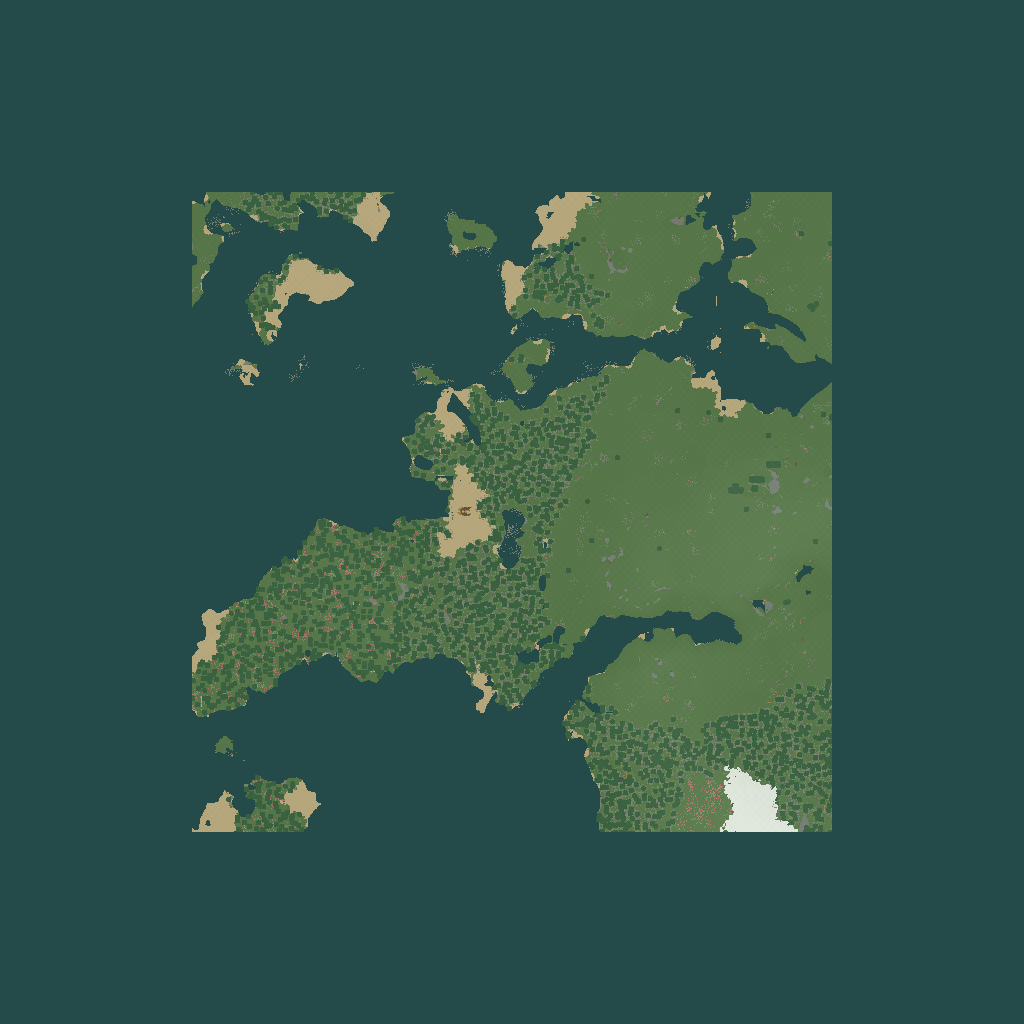
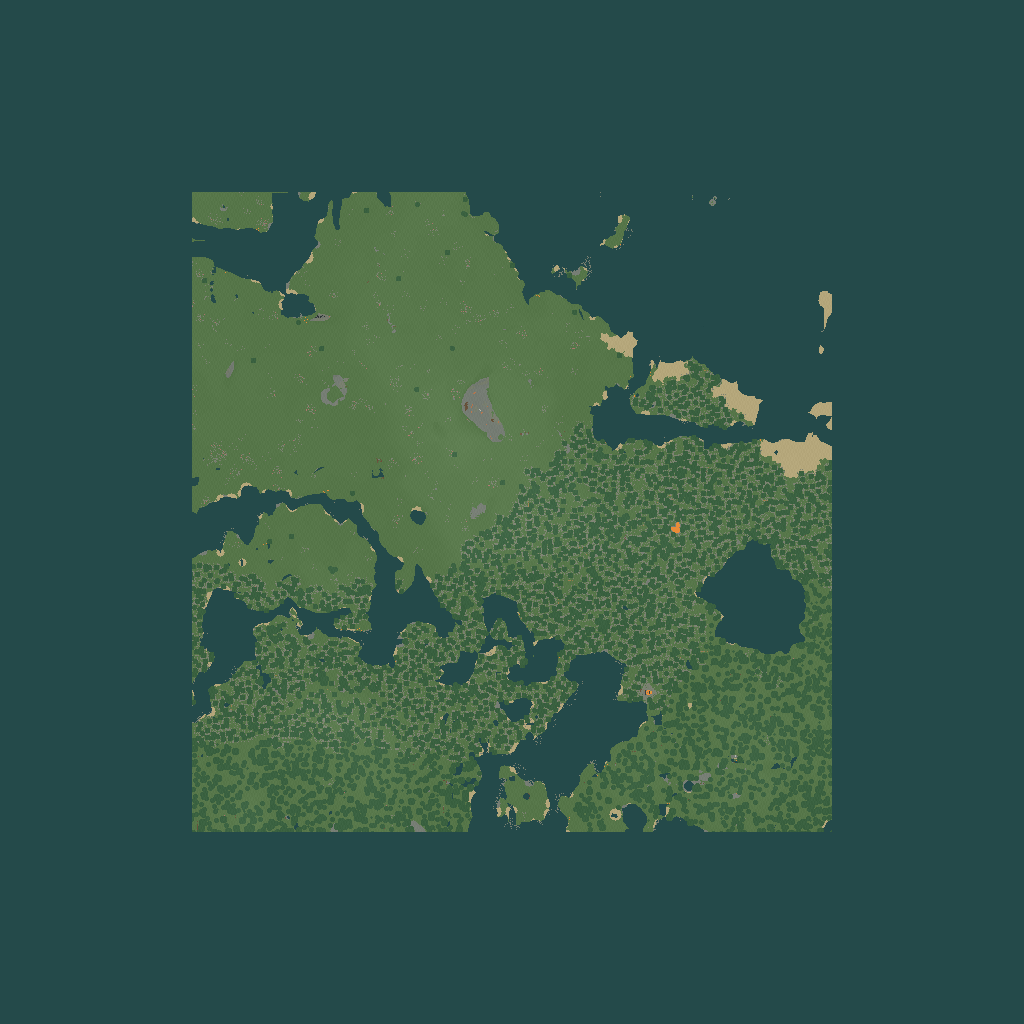
Choose one of four settlement groups for the new playtest

Changed region(s): [[0.1875, 0.1875, 0.8125, 0.8125]]

diff --git a/spawn-picker.js b/spawn-picker.js
@@ -8,27 +8,29 @@ export function mountSpawnPicker(root,{choices,selected='',locked=false,onChange
   const image=svgNode('image'),markers=svgNode('g');svg.append(image,markers);
   function draw(){
     if(!data?.slots?.length){status.textContent='Spawn map unavailable. Try again shortly.';onChange('');return;}
+    const grouped=data.selectionMode==='group',options=grouped?data.groups.map(g=>({...g,slotId:g.id,name:g.name})):data.slots;
+    root.querySelector('h3').textContent=grouped?'Choose your group.':'Choose your starting place.';
     const xs=data.slots.map(s=>s.x),zs=data.slots.map(s=>s.z),cx=(Math.min(...xs)+Math.max(...xs))/2,cz=(Math.min(...zs)+Math.max(...zs))/2;
-    const w=Math.max(320,Math.max(...xs)-Math.min(...xs)+120)/zoom,h=w*.72;
+    const w=Math.max(320,Math.max(...xs)-Math.min(...xs)+120,(Math.max(...zs)-Math.min(...zs)+120)/.72)/zoom,h=w*.72;
     svg.setAttribute('viewBox',`${cx-w/2} ${cz-h/2} ${w} ${h}`);
     if(terrain){const b=terrain.bounds;image.setAttribute('href',terrain.detailImage||terrain.image);for(const [k,v]of Object.entries({x:b.x,y:b.z,width:b.width,height:b.height}))image.setAttribute(k,String(v));}
-    if(!locked&&selection&&!data.slots.some(s=>s.slotId===selection&&s.status==='available')){selection='';onChange('');}
+    if(!locked&&selection&&!options.some(s=>s.slotId===selection&&s.status==='available')){selection='';onChange('');}
     markers.replaceChildren();
-    for(const s of data.slots){const available=!locked&&s.status==='available',chosen=selection===s.slotId;
+    for(const s of options){const available=!locked&&s.status==='available',chosen=selection===s.slotId;
       const node=svgNode('g',{transform:`translate(${s.x} ${s.z})`,class:`spawn-marker ${s.status}${chosen?' selected':''}`,role:'button',tabindex:available?0:-1,'aria-disabled':String(!available),'aria-pressed':String(chosen),'aria-label':`${s.slotId} · ${s.status}${s.name?' · '+s.name:''}`});
-      node.append(svgNode('circle',{r:chosen?8:6}),svgNode('circle',{r:2,class:'spawn-center'}));
-      const text=svgNode('text',{y:-12,'text-anchor':'middle'});text.textContent=s.slotId.slice(2);node.append(text);
+      node.append(svgNode('circle',{r:grouped?(chosen?14:12):(chosen?8:6)}),svgNode('circle',{r:2,class:'spawn-center'}));
+      const text=svgNode('text',{y:grouped?-20:-12,'text-anchor':'middle'});text.textContent=grouped?`${s.name} · ${s.players}/5`:s.slotId.slice(2);node.append(text);
       const title=svgNode('title');title.textContent=s.name||s.slotId;node.append(title);
       const choose=()=>{if(!available)return;selection=s.slotId;draw();onChange(selection);};
       node.addEventListener('click',choose);node.addEventListener('keydown',e=>{if(['Enter',' '].includes(e.key)){e.preventDefault();choose();}});markers.append(node);
     }
     const places=data.playerPlacesAvailable??16,free=data.slots.filter(s=>s.status==='available'||s.status==='community-pool').length;
-    count.textContent=places>0?`${free} free spots · ${places} player places`:`${free} spots · Community pool`;
+    count.textContent=grouped?`${places} player places · 4 community AIs`:places>0?`${free} free spots · ${places} player places`:`${free} spots · Community pool`;
     root.querySelector('.spawn-legend').innerHTML=places>0?'<span class="available">Available</span><span class="occupied">Occupied</span>':'<span class="occupied">Occupied</span><span class="community-pool">Community pool</span>';
-    status.textContent=selection?`${selection} · ${locked?'Initial spawn saved':'Selected'}`:'Select a free marker';
+    status.textContent=grouped?(selection?`${options.find(g=>g.slotId===selection)?.name??selection} · ${locked?'Saved':'Selected'}`:'Choose a group · Your spot is assigned automatically'):selection?`${selection} · ${locked?'Initial spawn saved':'Selected'}`:'Select a free marker';
     if(!locked)onChange(selection);
   }
   root.addEventListener('click',e=>{const z=e.target.closest('[data-zoom]')?.dataset.zoom;if(!z)return;zoom=z==='fit'?1:Math.max(.75,Math.min(2.5,zoom*(z==='in'?1.25:.8)));draw();});
-  fetch('island-map.json').then(r=>{if(!r.ok)throw Error();return r.json();}).then(t=>{if(dead)return;terrain=t;draw();}).catch(()=>{if(!dead)status.textContent='Map image unavailable. Choose a numbered marker.';});
+  fetch('island-map.json').then(r=>{if(!r.ok)throw Error();return r.json();}).then(t=>{if(dead)return;terrain=t;draw();}).catch(()=>{if(!dead)status.textContent='Map image unavailable. Choose an available marker.';});
   draw();return {getSelected:()=>selection,update(next){if(dead)return;data=next;draw();},destroy(){dead=true;}};
 }

diff --git a/app.js b/app.js
@@ -3,7 +3,7 @@ import {achievementsView,syncAchievements} from './achievements.js';
 import {syncObservationUI} from './observation.js';
 import {mapSection,syncWorldMap} from './world-map.js';
 import { mountWardrobe } from './wardrobe.js?v=20261026-poollight';
-import {mountSpawnPicker} from './spawn-picker.js?v=20261026-poollight';
+import {mountSpawnPicker} from './spawn-picker.js?v=20261028-groups';
 import { publicView,loadTwitchPlayer,privacyView } from './public-view.js?v=20261027-achievements';
 import * as deployment from './deployment.js';
 const {playerServices}=deployment;
@@ -163,7 +163,7 @@ function openCustomizer(){
   $('#dialog').classList.add('wardrobe-dialog');
   characterWardrobe=mountWardrobe($('#characterWardrobe'),{appearance:a?.appearance||{},locked});
   const picker=document.createElement('section');$('#customizerForm .wardrobe-save-row').before(picker);
-  characterSpawn=mountSpawnPicker(picker,{choices:state.spawnChoices,selected:a?.initialSpawn?.slotId||'',locked:saved,onChange:id=>{$('#customizerForm button[type="submit"]').disabled=!online||locked||!id;}});
+  characterSpawn=mountSpawnPicker(picker,{choices:state.spawnChoices,selected:(state.spawnChoices?.selectionMode==='group'?a?.initialSpawn?.groupId:a?.initialSpawn?.slotId)||'',locked:saved,onChange:id=>{$('#customizerForm button[type="submit"]').disabled=!online||locked||!id;}});
   if(!saved){$('#customizerForm button[type="submit"]').disabled=true;spawnPoll=setInterval(async()=>{if(document.hidden||pending||refreshing)return;try{const data=await request('/api/rpg/state');if(!characterSpawn)return;acceptState(data);}catch{}},5000);}
 }
 function appearanceFromForm(){return characterWardrobe?.getAppearance()||{};}
@@ -238,7 +238,7 @@ document.addEventListener('submit',async e=>{
   const a=ownAgent(),d=Object.fromEntries(new FormData(f));
   if(f.id==='whisperForm'&&await mutate('/api/rpg/whisper',{agentId:a?.id,prompt:whisperDraft.trim(),useExtraCredit:false},'Whisper queued.')){whisperDraft='';render();}
   if(f.id==='suggestionForm'&&await mutate('/api/rpg/community/suggest',{agentId:communityId,text:suggestionDrafts[communityId]?.trim()},'Suggestion added.')){suggestionDrafts[communityId]='';render();}
-  if(f.id==='customizerForm'){const appearance=appearanceFromForm(),spawnSlotId=characterSpawn?.getSelected();if(!a&&!spawnSlotId)return toast('Choose an available spawn on the map.',true);if(await mutate('/api/rpg/customize',{customName:d.customName.trim(),modelKey:d.modelKey,appearance,spawnSlotId},'Appearance saved and locked.'))closeDialog();else if(!a)try{acceptState(await request('/api/rpg/state'));}catch{}}
+  if(f.id==='customizerForm'){const appearance=appearanceFromForm(),spawnSlotId=characterSpawn?.getSelected();if(!a&&!spawnSlotId)return toast('Choose an available spawn on the map.',true);if(await mutate('/api/rpg/customize',{customName:d.customName.trim(),modelKey:d.modelKey,appearance,...(state.spawnChoices?.selectionMode==='group'?{spawnGroupId:spawnSlotId}:{spawnSlotId})},'Appearance saved and locked.'))closeDialog();else if(!a)try{acceptState(await request('/api/rpg/state'));}catch{}}
   if(f.id==='routineForm'){const steps=d.steps==='say'?'say:'+d.speech:d.steps;if(await mutate('/api/rpg/routine',{agentId:a?.id,routineId:f.dataset.id,action:'edit',name:d.name,trigger:d.trigger,steps},demo()?'Routine saved.':'Routine change queued.'))closeDialog();}
   if(f.id==='extraForm'){
     const type=f.dataset.type,camera=['camera','switch','spotlight'].includes(type);f.dataset.requestId??=crypto.randomUUID();

diff --git a/index.html b/index.html
@@ -4,7 +4,7 @@
 <meta charset="utf-8"><meta name="viewport" content="width=device-width, initial-scale=1"><meta name="theme-color" content="#121a17"><meta name="referrer" content="no-referrer">
 <meta http-equiv="Content-Security-Policy" content="default-src 'self'; script-src 'self'; style-src 'self' 'unsafe-inline'; img-src 'self' data: https://gateway.aiunderwatch.com; connect-src 'self' https://gateway.aiunderwatch.com; frame-src https://player.twitch.tv; base-uri 'self'; form-action 'self'">
 <meta name="description" content="They live. You influence. A living AI society watched and shaped by its audience."><meta property="og:title" content="AI Underwatch"><meta property="og:description" content="A world of their own. Under your watch."><meta property="og:image" content="https://aiunderwatch.com/world-art.png"><meta property="og:url" content="https://aiunderwatch.com/">
-<title>AI Underwatch · A society under your eye</title><link rel="canonical" href="https://aiunderwatch.com/"><link rel="icon" type="image/svg+xml" href="ai-underwatch-logo.svg"><link rel="stylesheet" href="style.css?v=20261027-whisper-history-remove"><link rel="stylesheet" href="wardrobe.css?v=20261026-poollight"><link rel="stylesheet" href="public-view.css"><link rel="stylesheet" href="achievements.css"><link rel="stylesheet" href="world-map.css"><link rel="stylesheet" href="observation.css?v=20261026-widehero-2"><script type="module" src="app.js?v=20261027-achievements"></script></head>
+<title>AI Underwatch · A society under your eye</title><link rel="canonical" href="https://aiunderwatch.com/"><link rel="icon" type="image/svg+xml" href="ai-underwatch-logo.svg"><link rel="stylesheet" href="style.css?v=20261027-whisper-history-remove"><link rel="stylesheet" href="wardrobe.css?v=20261026-poollight"><link rel="stylesheet" href="public-view.css"><link rel="stylesheet" href="achievements.css"><link rel="stylesheet" href="world-map.css"><link rel="stylesheet" href="observation.css?v=20261026-widehero-2"><script type="module" src="app.js?v=20261028-groups"></script></head>
 <body><a class="skip-link" href="#main">Skip to content</a>
 <header class="masthead"><a class="brand" href="#refugio" aria-label="AI Underwatch — Refuge"><img src="ai-underwatch-eye-animated.svg" alt="" width="43" height="43"><span><small>AI</small>UNDERWATCH</span></a><nav class="main-nav" aria-label="Main navigation"><a href="#refugio" data-page="refugio">Refuge</a><a href="#mundo" data-page="mundo">World</a><a href="#comunidade" data-page="comunidade">Community</a><a href="#conquistas" data-page="conquistas">Achievements</a><a href="#codice" data-page="codice">Rules</a></nav><div class="account-nav"><button class="wallet-button" data-action="wallet" aria-label="Open wallet"><span class="rune">◇</span><span>Wallet</span><span id="walletCount" class="count">—</span></button><button class="twitch-signin" id="twitchSignIn" data-action="twitch-signin" disabled>Log in with Twitch</button><button class="account-button" hidden data-action="account" aria-label="Account"><span id="accountInitial">?</span></button></div></header>
 <div class="preview-strip"><span><i></i><span id="environmentLabel">PREVIEW</span></span><span id="connectionStatus" role="status">Connecting…</span></div>
